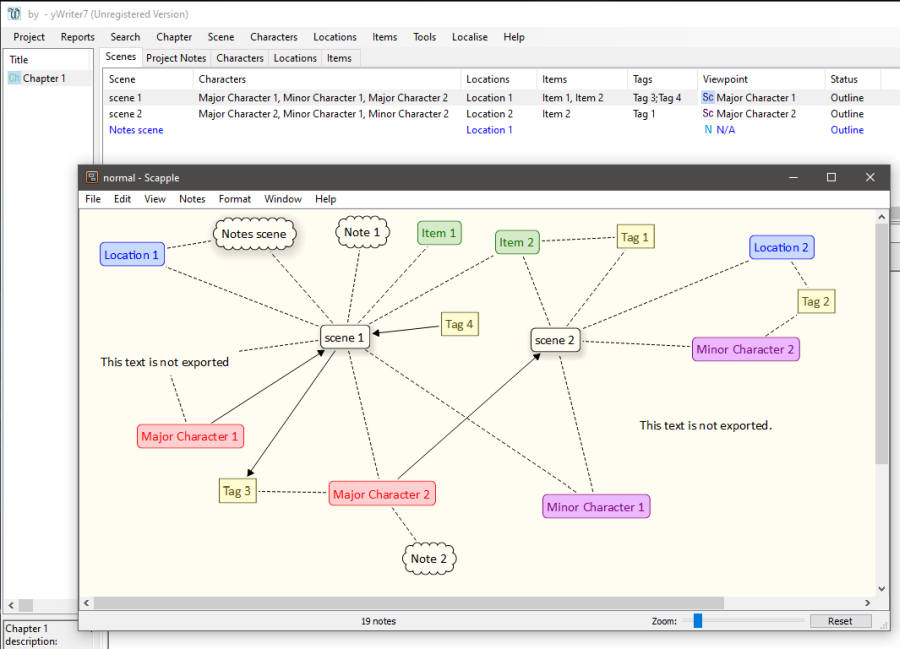
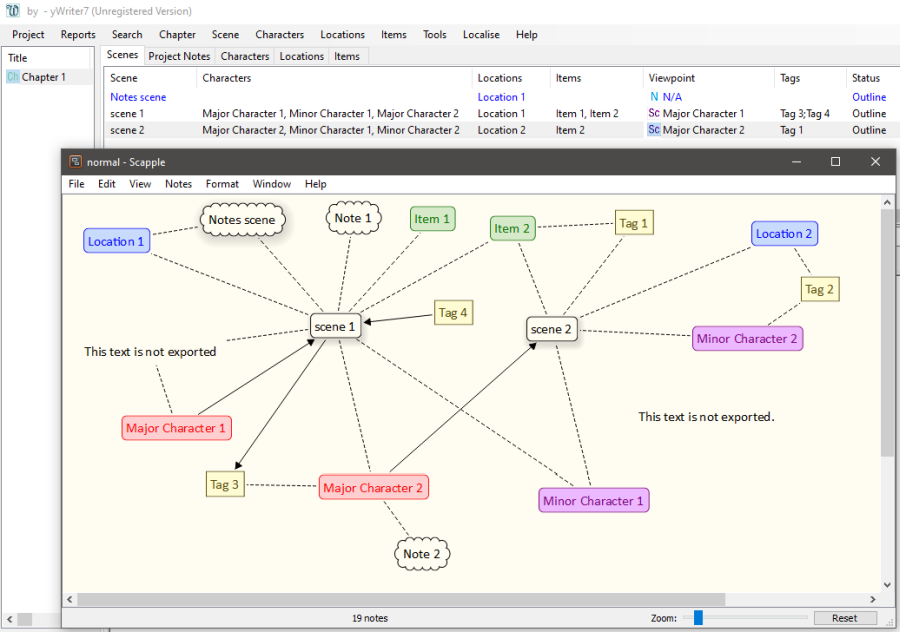
Prepare v0.12.0 based on PyWriter 3.22.0
- Sort scenes by diagram position. Closes #5

diff --git a/src/pyScapple/scap_file.py b/src/pyScapple/scap_file.py
@@ -68,10 +68,12 @@ class ScapFile(Novel):
         # Parse Scapple notes.
 
         scapNotes = {}
+        uidByPos = {}
 
         for xmlNote in root.iter('Note'):
             note = ScapNote(xmlNote)
             scapNotes[note.uid] = note
+            uidByPos[note.position] = note.uid
 
             # Create Novel elements.
 
@@ -85,7 +87,6 @@ class ScapFile(Novel):
                     # Status = Outline
 
                     self.scenes[note.uid] = scene
-                    self.chapters[chId].srtScenes.append(note.uid)
 
             elif note.color == self.majorCharaColor:
 
@@ -122,6 +123,13 @@ class ScapFile(Novel):
                     item.title = note.text
                     self.items[note.uid] = item
                     self.srtItems.append(note.uid)
+
+        # Sort notes by position.
+
+        srtNotes = sorted(uidByPos.items())
+
+        for srtNote in srtNotes:
+            self.chapters[chId].srtScenes.append(srtNote[1])
 
         # Assign characters/locations/items/tags/notes to the scenes.
 

diff --git a/src/pyScapple/scap_note.py b/src/pyScapple/scap_note.py
@@ -10,6 +10,10 @@ class ScapNote():
     """Scapple note representation.
     """
 
+    Y_FACTOR = 100000
+    # Sortable position = y * Y_FACTOR + x
+    # This works if x and y are not greater than 9999.9
+
     def __init__(self, xmlNote):
         """Parse a single Scapple note.
         Extend the superclass method.
@@ -24,7 +28,7 @@ class ScapNote():
         self.text = xmlNote.find('String').text
 
         positionStr = xmlNote.attrib['Position'].split(',')
-        self.position = [float(positionStr[0]), float(positionStr[1])]
+        self.position = float(positionStr[1]) * self.Y_FACTOR + float(positionStr[0])
 
         # Set UID.
         # Because Scapple UIDs begin with zero, they are all incremented by 1 for yWriter use.

diff --git a/docs/index.md b/docs/index.md
@@ -25,9 +25,9 @@
 
 ## Download and install
 
-[Download the latest release (version 0.10.0)](https://raw.githubusercontent.com/peter88213/scappex/main/dist/scappex_v0.10.0.zip)
+[Download the latest release (version 0.12.0)](https://raw.githubusercontent.com/peter88213/scappex/main/dist/scappex_v0.12.0.zip)
 
-- Unzip the downloaded zipfile "scappex_v0.10.0.zip" into a new folder.
+- Unzip the downloaded zipfile "scappex_v0.12.0.zip" into a new folder.
 - Move into this new folder and launch **install.bat**. This installs the script for the local user.
 - Create a shortcut on the desktop when asked.
 - Open "README.md" for usage instructions.

diff --git a/docs/usage.md b/docs/usage.md
@@ -41,6 +41,7 @@ XML files are generated instead. They can be imported into any yWriter project.
 
 - Notes with a shadow are converted to scenes. 
 - Notes with a shadow and "cloud" border are converted to "Notes" scenes. 
+- Scenes are ordered by their position in the Scapple diagram (from top left to bottom right).
 - Notes with a "cloud" border without shadow are converted to scene and character notes.
 - Notes with a square border are converted to tags.
 - Notes with red text are converted to major characters.

diff --git a/docs/changelog.md b/docs/changelog.md
@@ -8,6 +8,12 @@
 
 See the [GitHub "features" project](https://github.com/peter88213/scappex/projects/1).
 
+### v0.12.0 Beta test release
+
+- Scenes are ordered by their position in the Scapple diagram (from top left to bottom right).
+
+Based on PyWriter v3.22.0
+
 ### v0.10.0 Beta test release
 
 Export notes to yWriter.
